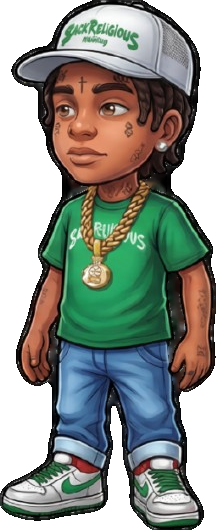
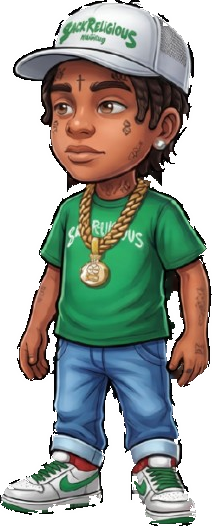
Clean the cut-out of Benji standing in the green tee
The four standing drawings carried a ring of dark grey round the whole figure,
left by a rough cut-out, and the same grey filled the gaps between his arms and
his body. The walking strides are cut clean, so he flickered between the two
with every step.

The ring is peeled from the edge inwards until the drawing's own black outline
begins, and each patch of grey the outline closes off is judged whole: the cap
and the shoes are mostly white and stay, a leftover gap is dark and mottled and
goes, a flat dark shadow in the hair stays. The drawing inside the outline is
untouched. Cleared pixels beside the figure take the figure's colour so the
edge does not pick up grey when drawn small.

The strides are re-sized against the cleaned drawings, and the art's cache
version is bumped so the new files are fetched.

Claude-Session: https://claude.ai/code/session_011XGCotqBWtNhVLXTttk4cE

diff --git a/src/game-v2/assets/characters.ts b/src/game-v2/assets/characters.ts
@@ -67,10 +67,10 @@ export const characters = {
     // Canonical identity PNGs. Screen-left is the three-quarter file;
     // the file named "left" actually faces screen-right.
     views: {
-      front: cut("/game-v2/characters/benji/front.png", 200, 535, 1),
-      back: cut("/game-v2/characters/benji/back.png", 197, 515, 1),
-      left: cut("/game-v2/characters/benji/left.png", 216, 530, 1),
-      right: cut("/game-v2/characters/benji/right.png", 227, 538, 1),
+      front: cut("/game-v2/characters/benji/front.png", 196, 530, 0),
+      back: cut("/game-v2/characters/benji/back.png", 193, 511, 0),
+      left: cut("/game-v2/characters/benji/left.png", 212, 526, 0),
+      right: cut("/game-v2/characters/benji/right.png", 223, 534, 0),
       walk: cut("/game-v2/characters/benji/walk.png", 672, 1649, 0),
     },
     bible: "01_Benji/00_Canonical_Identity/",

diff --git a/src/game-v2/assets/cast.ts b/src/game-v2/assets/cast.ts
@@ -1,7 +1,7 @@
 import type { CardArt } from "../actors/card";
 import { characters } from "./characters";
 
-const V = "?v=6";
+const V = "?v=7";
 const turn = (folder: string): CardArt => ({
   front: `/game-v2/characters/${folder}/front.png${V}`,
   back: `/game-v2/characters/${folder}/back.png${V}`,
@@ -63,7 +63,7 @@ function strides(id: string, size: Strides): Pick<CardArt, "walk" | "scale"> {
   };
 }
 
-const starterWalk = strides("starter", [1.045, 1.028, 1.041, 1.036, 1.045, 1.003]);
+const starterWalk = strides("starter", [1.045, 1.03, 1.0, 0.995, 1.005, 0.97]);
 
 /** Benji in each fit he has art for, what wearing it does, and where it comes from. */
 export const OUTFITS: Record<OutfitId, { name: string; art: CardArt; perk: string; from: string }> = {
